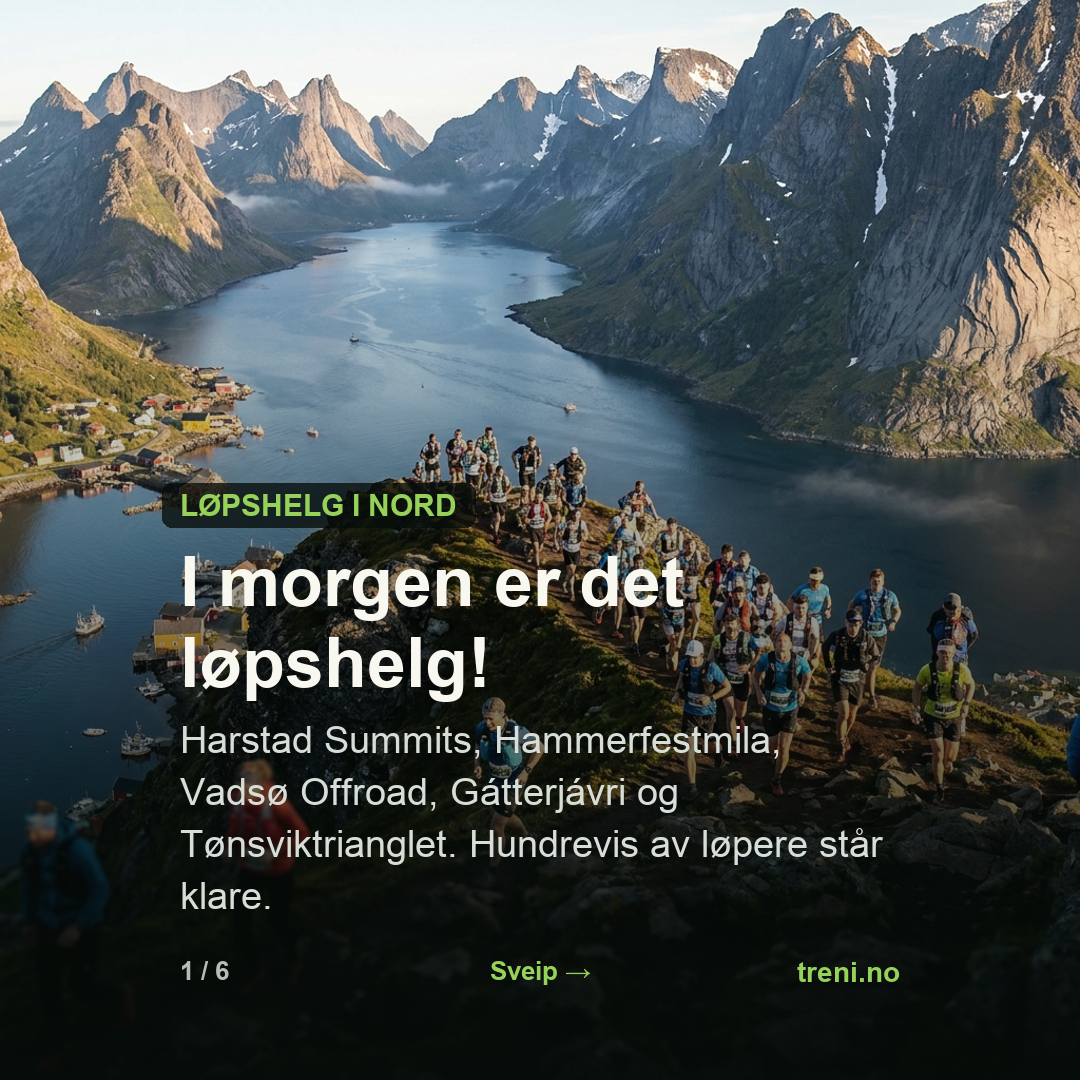
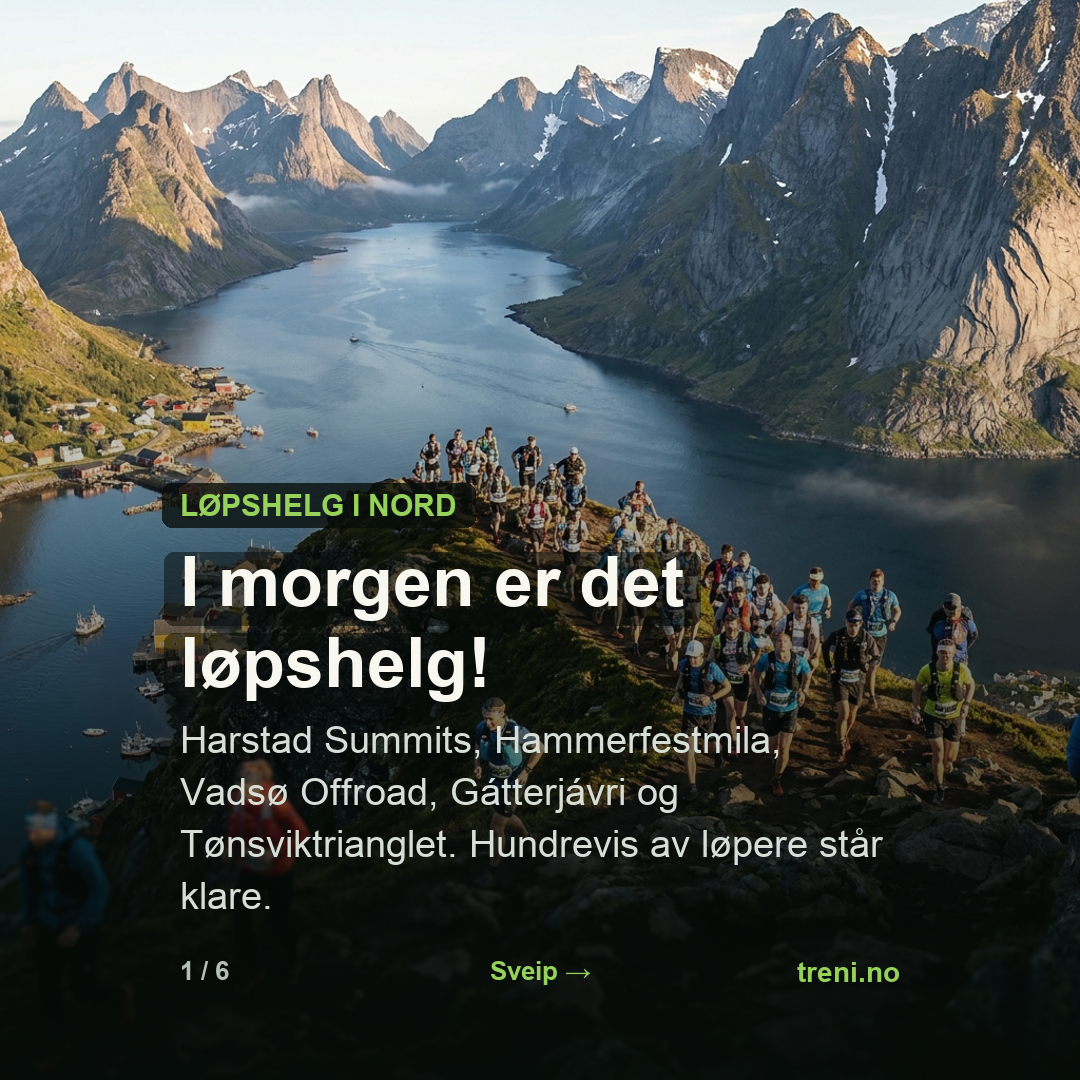
Onboarding-meldinger 1–8: trener-e-post med ventelistelenke, trenervarsel med sidelenke, klartekst-kvitteringer m/ tidsløfte, «plassen din er klar» ved Strava-plass, SMS-oppfordring fjernet, mildere Strava-løfte, ingen tankestreker
Claude-Session: https://claude.ai/code/session_01PSvWMDU43rUT1JueCz417n

Changed region(s): [[0.3361, 0.4889, 0.6722, 0.5806], [0.1528, 0.4889, 0.275, 0.6417], [0.3056, 0.5806, 0.3361, 0.6111]]

diff --git a/bli-testloper.php b/bli-testloper.php
@@ -41,16 +41,17 @@ if ($_SERVER["REQUEST_METHOD"] === "POST") {
     } elseif ($navn === "" || !filter_var($epost, FILTER_VALIDATE_EMAIL)) {
         $feil = "Fyll inn navn og en gyldig e-postadresse.";
     } else {
+        $vl_kode_ny = bin2hex(random_bytes(16));   // ventelistekoden lages her så trener-e-posten får lenken
         $tekst = "Ny testløper-interesse fra treni.no\n\n"
-               . ($maal_lop ? "🏁 KOM VIA LØPSKALENDEREN — vil trene mot: "
+               . ($maal_lop ? "🏁 KOM VIA LØPSKALENDEREN, vil trene mot: "
                   . $maal_lop["navn"] . ($maal_lop["dato"] ? " (" . $maal_lop["dato"] . ")" : "")
                   . "\nPåmeldingslenke: " . $maal_lop["pamelding"] . "\n\n" : "")
                . "Navn: " . $navn . "\n"
                . "E-post: " . $epost . "\n"
                . ($tg !== "" ? "Telegram: " . $tg . "\n" : "")
                . "Språk: " . $sprak . "\n\n"
-               . "Inviter (send personlig): https://t.me/VeilederenAIBot?start="
-               . ($sprak === "engelsk" ? "verve_odd_en" : "verve_odd") . "\n\n"
+               . "Ventelistesiden (klar når løperen har svart på spørsmålene): "
+               . "https://min.treni.no/venteliste.php?t=" . $vl_kode_ny . "\n\n"
                . ($kilde !== "" ? "Tipset av: " . $kilde . "\n\n" : "")
                . "Om løpingen:\n" . ($om !== "" ? $om : "(ikke utfylt)") . "\n";
         // Gmail-røret (Odds beslutning 20.08): DKIM-signert, innboks + Sendt-arkiv.
@@ -84,7 +85,7 @@ if ($_SERVER["REQUEST_METHOD"] === "POST") {
                     om TEXT,
                     status VARCHAR(20) NOT NULL DEFAULT 'venter'
                 ) CHARACTER SET utf8mb4");
-                $vl_kode = bin2hex(random_bytes(16));
+                $vl_kode = $vl_kode_ny;
                 try { $pdo->exec("ALTER TABLE venteliste ADD COLUMN maal_lop TEXT NULL"); }
                 catch (Throwable $e9) { /* finnes alt */ }
                 $pdo->prepare("INSERT INTO venteliste (navn, epost, telegram, om, sprak, kilde, mobil, kode, maal_lop) VALUES (?,?,?,?,?,?,?,?,?)")
@@ -137,13 +138,14 @@ if ($_SERVER["REQUEST_METHOD"] === "POST") {
                       . "your training automatically through Strava - that is how the "
                       . "advisor sees your sessions and adjusts your plan every week. "
                       . "Strava caps how many runners a service like ours can connect, "
-                      . "and our first ten spots are taken. We have applied for many "
-                      . "more, and the answer is expected shortly - you are in line.\n\n"
+                      . "and our first ten spots are taken. We have applied for more, "
+                      . "and we will let you know as soon as your spot opens. You are in line.\n\n"
                       . "But we have already made something for you: answer a few quick "
                       . "questions, and the advisor builds your heart-rate zones and a "
                       . "training plan from your numbers. You also get full access to "
                       . "the e-book Training for Mountain Running by our coach Eirik "
-                      . "Haugsnes (physiotherapist and skyrunner):\n\n"
+                      . "Haugsnes (physiotherapist and skyrunner). You were sent straight "
+                      . "to the questions when you signed up. To continue later, use this link:\n\n"
                       . $lenke . "\n\n"
                       . "When your spot opens, you connect Strava in two minutes - and "
                       . "get full weekly guidance with a coach in the loop.\n\n"
@@ -157,13 +159,15 @@ if ($_SERVER["REQUEST_METHOD"] === "POST") {
                       . "veilederen ser øktene dine og justerer planen hver uke. Strava "
                       . "setter et tak på hvor mange løpere en tjeneste som vår kan "
                       . "koble til, og de ti første plassene våre er fylt. Vi har søkt "
-                      . "Strava om mange flere plasser, og svaret ventes i løpet av "
-                      . "kort tid - du står klar i køen.\n\n"
+                      . "Strava om flere plasser, og vi sier fra så snart plassen din "
+                      . "åpner. Du står i køen.\n\n"
                       . "Men vi har laget noe til deg allerede nå: svar på noen kjappe "
                       . "spørsmål, så bygger veilederen pulssonene dine og en "
                       . "treningsplan ut fra tallene dine. Du får også full tilgang til "
                       . "e-boka «Trening for fjelløping», skrevet av treneren vår Eirik "
-                      . "Haugsnes (fysioterapeut og skyrunner):\n\n"
+                      . "Haugsnes (fysioterapeut og skyrunner). Du ble sendt rett til "
+                      . "spørsmålene da du meldte deg. Vil du fortsette senere, bruker "
+                      . "du denne lenken:\n\n"
                       . $lenke . "\n\n"
                       . "Når plassen din åpner, kobler du Strava på to minutter - og "
                       . "får full ukentlig veiledning med trener i loopen.\n\n"
@@ -182,7 +186,7 @@ if ($_SERVER["REQUEST_METHOD"] === "POST") {
         if (isset($vl_kode) && $mobil !== "" && defined("TRENI_BOT_TOKEN")) {
             $fornavn3 = explode(" ", $navn)[0];
             $lenke3 = "https://treni.no/venteliste-start.php?k=" . $vl_kode;
-            $sms = ($sprak === "engelsk")
+            $sms = ($sprak === "engelsk")   // (ikke lenger i varselet, 03.09: løperen sendes rett til spørsmålene)
                 ? "Hi " . $fornavn3 . "! Odd Levi from Treni here - thanks for signing up! "
                   . "While you wait for your Strava spot we made you a personal page: answer "
                   . "a few quick questions and you get heart-rate zones, a training plan and "
@@ -201,12 +205,8 @@ if ($_SERVER["REQUEST_METHOD"] === "POST") {
 ",
                     "content" => http_build_query([
                         "chat_id" => defined("TRENI_ODD_CHAT") ? TRENI_ODD_CHAT : TRENI_TRENER_CHAT,
-                        "text" => "📱 SMS klar til å sende til " . $navn . " (" . $mobil
-                                . ") - kopier og send fra mobilen:
-———
-" . $sms . "
-———
-🚦 Status: venter (ny påmelding — sendt rett til spørsmålene, ikke svart ennå)
+                        "text" => "🆕 Ny påmelding: " . $navn . " (" . $mobil . ")
+🚦 Status: venter (sendt rett til spørsmålene, ikke svart ennå)
 ✉ Kommunisert: velkomst-e-post sendt til " . $epost . (!empty($velkomst_ok) ? " ✓ (Gmail-røret)" : " (usikker leveranse!)") . "
 📝 Om løpingen: " . mb_substr($om !== "" ? $om : "(ikke utfylt)", 0, 300)]),
                     "timeout" => 8]]));

diff --git a/venteliste-start.php b/venteliste-start.php
@@ -72,7 +72,7 @@ if ($_SERVER["REQUEST_METHOD"] === "POST" && $rad && trim($_POST["nettside"] ?? 
         // Odds presisering 01.09: selve SVARENE skal stå i innslaget —
         // sammendraget bygges FØR fil-sjekken, så også helt nye løpere
         // (bygges-stubben under) får det.
-        $vl_sam = '📝 Onboarding-svarene dine er mottatt — soner og plan bygges/oppdateres fra dem. '
+        $vl_sam = '📝 Svarene dine er mottatt. Soner og plan bygges fra dem. '
                 . 'Du svarte: Mål: ' . $svar['maal']
                 . ' · Alder: ' . $svar['alder']
                 . ' · ' . $svar['km_uke'] . ' km/uke'
@@ -100,6 +100,7 @@ if ($_SERVER["REQUEST_METHOD"] === "POST" && $rad && trim($_POST["nettside"] ?? 
                         "chat_id" => TRENI_TRENER_CHAT,
                         "text" => "📝 Venteliste-onboarding fullført: " . $rad["navn"]
                                 . " (id " . $rad["id"] . ")\n"
+                                . "Side: https://min.treni.no/venteliste.php?t=" . $kode . "\n"
                                 . "Mål: " . $svar["maal"] . "\n"
                                 . "Alder: " . $svar["alder"]
                                 . " · km/uke: " . $svar["km_uke"]
